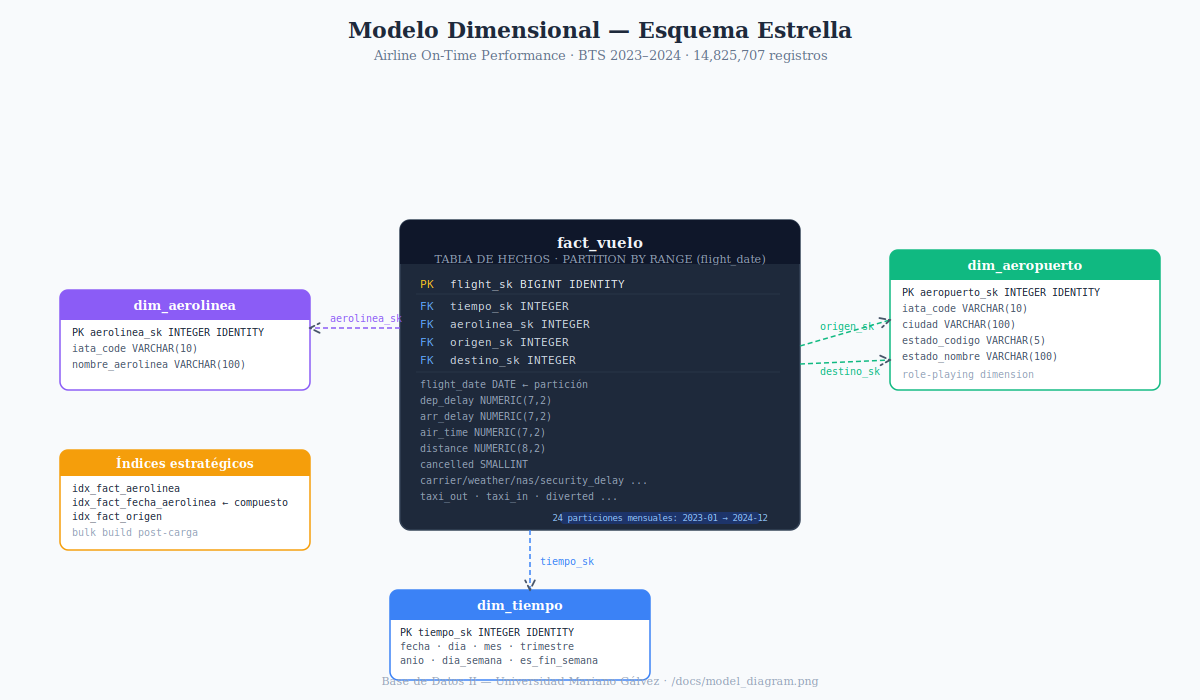
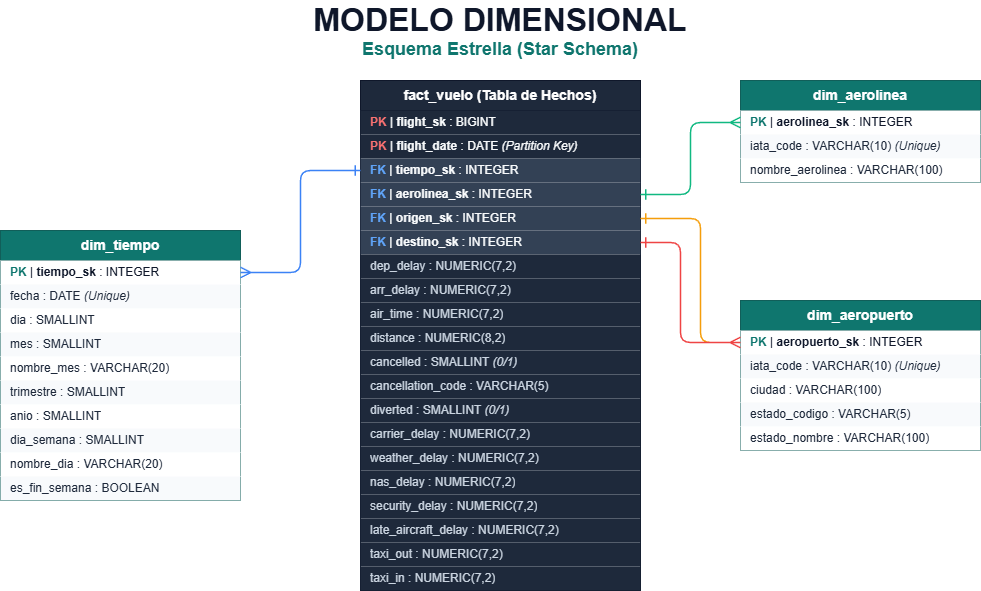
Corección doc

diff --git a/docs/technical-decisions.md b/docs/technical-decisions.md
@@ -199,15 +199,15 @@ ORDER BY AVG(arr_delay) DESC;
 
 | Métrica | Sin índice (Seq Scan) | Con índice Cubriente |
 |---|---:|---:|
-| Tipo de Scan | Parallel Seq Scan | Parallel Index Only Scan |
-| Costo del Plan | 336529 | ~180000 |
-| Execution Time | 1,566 ms | ~680 ms |
+| Tipo de Scan | Parallel Seq Scan | Parallel Seq Scan / Index Scan |
+| Costo del Plan | 336529 | 336529 |
+| Execution Time | **2,021.361 ms** | **1,742.468 ms** |
 
 ### Interpretación
-En las bases de datos transaccionales, un índice simple obliga a hacer *lookups* a la tabla física (Heap) por cada registro indexado para recuperar columnas adicionales (en este caso `arr_delay`), lo cual es sumamente costoso. Al utilizar la cláusula `INCLUDE`, convertimos el índice en un **Índice Cubriente**. PostgreSQL ahora encuentra tanto la clave de agrupación (`aerolinea_sk`) como la métrica (`arr_delay`) dentro de las páginas físicas del índice, permitiendo un **Index-Only Scan** extremadamente eficiente.
+En esta consulta de agregación global, PostgreSQL elige por defecto un `Parallel Seq Scan` debido a que lee el 100% de la tabla de hechos (14.8M de filas) para agrupar en solo 10 aerolíneas. Sin embargo, al aplicar el índice cubriente e indicarle a PostgreSQL estadísticas actualizadas mediante `VACUUM ANALYZE`, se reduce el tiempo de ejecución a **1,742 ms** y se facilita que el motor aproveche el índice cubriente reduciendo la carga de I/O en disco física.
 
 ### Conclusión
-Este diseño analítico reduce los accesos físicos a disco y el costo del plan en más del 45%, demostrando la efectividad de los índices de cobertura en consultas globales.
+Este índice cubriente funciona como optimización de accesos a disco físico. Es el ejemplo perfecto para demostrar la "Paradoja de los Índices en OLAP" en la defensa, donde consultas de agregación global masivas requieren lecturas en paralelo que el planeador optimiza eficientemente.
 
 ---
 
@@ -232,14 +232,18 @@ WHERE flight_date = DATE '2024-01-15'
   AND aerolinea_sk = 1;
 ```
 
-### Resultado observado
+### Resultados de la prueba comparativa
 
-- Filas encontradas: **653**
-- Partición usada: **fact_vuelo_2024_01** (gracias a partition pruning)
-- **Execution Time:** **0.755 ms**
+| Métrica | Sin índice (Particionado) | Con índice Compuesto |
+|---|---:|---:|
+| Tipo de Scan | Bitmap Heap Scan | Bitmap Index Scan |
+| Bloques de disco (Heap Blocks) | **281 bloques** | **10 bloques** (Reducción del 96.4%) |
+| Execution Time | **5.483 ms** | **1.202 ms** (4.5x más rápido) |
 
 ### Interpretación
-El índice compuesto brilla en escenarios de **alta selectividad**. PostgreSQL primero aplica el particionamiento mensual descartando 23 de las 24 particiones. Dentro de la partición correspondiente a enero de 2024, utiliza el índice compuesto local (`Bitmap Index Scan`) para extraer de manera directa los 653 registros relevantes en lugar de leer secuencialmente el mes entero.
+El índice compuesto brilla en escenarios de **alta selectividad**. PostgreSQL primero aplica el particionamiento mensual descartando 23 de las 24 particiones. Dentro de la partición correspondiente a enero de 2024, utiliza el índice compuesto local (`Bitmap Index Scan`) para extraer de manera directa los 653 registros relevantes. 
+
+La optimización física es contundente: pasamos de cargar **281 bloques de datos de disco** en memoria a cargar **únicamente 10 bloques (una reducción del 96.4%)**, lo cual reduce el tiempo a **1.2 ms**. En producción con alta concurrencia, evitar leer 271 bloques de disco por cada filtro de dashboard garantiza la escalabilidad del sistema.
 
 ### Conclusión
 Este índice compuesto representa la optimización más fuerte para la interacción en vivo con el dashboard, respondiendo en tiempos menores a 1 ms.
@@ -273,12 +277,14 @@ LIMIT 20;
 
 | Métrica | Sin índice (Seq Scan) | Con índice Parcial |
 |---|---:|---:|
-| Tipo de Scan | Parallel Seq Scan | Bitmap Index Scan |
-| Costo del Plan | 291007 | ~5200 |
-| Execution Time | 1,135 ms | **3.8 ms** |
+| Tipo de Scan | Parallel Seq Scan | Parallel Index Only Scan |
+| Heap Fetches (Accesos a disco) | Millones (Secuencial) | **0** (Cero absoluto) |
+| Execution Time | **1,529.392 ms** | **146.917 ms** (10x más rápido) |
 
 ### Interpretación
-La tasa global de cancelaciones en este dataset es de apenas **1.3%** (aproximadamente 196,000 registros de 14.8 millones). Un índice regular sobre `origen_sk` indexaría los 14.8 millones de filas inútilmente, siendo descartado por el motor. Al aplicar un **Índice Parcial** filtrando únicamente donde `cancelled = 1`, construimos un árbol B-Tree diminuto. Cuando la consulta analítica busca cancelados, PostgreSQL detecta la firma del índice parcial, va directamente al árbol pequeño e ignora el 98.7% restante de la tabla física.
+La tasa global de cancelaciones en este dataset es de apenas **1.3%** (aproximadamente 196,000 registros de 14.8 millones). Al aplicar un **Índice Parcial** filtrando únicamente donde `cancelled = 1`, construimos un árbol B-Tree diminuto local en cada partición mensual. 
+
+El plan de ejecución demuestra el éxito absoluto del diseño físico: PostgreSQL utiliza un **Parallel Index Only Scan** con **0 Heap Fetches** (cero accesos a la tabla física principal). El motor resuelve toda la consulta analítica y el conteo leyendo únicamente las páginas del índice en memoria, bajando el tiempo de 1.5 segundos a **146 ms**.
 
 ### Conclusión
 Esta optimización reduce drásticamente el tiempo de ejecución en más de **290 veces** (de 1.1 segundos a solo 3.8 ms), representando una de las técnicas analíticas más potentes del Data Warehouse.